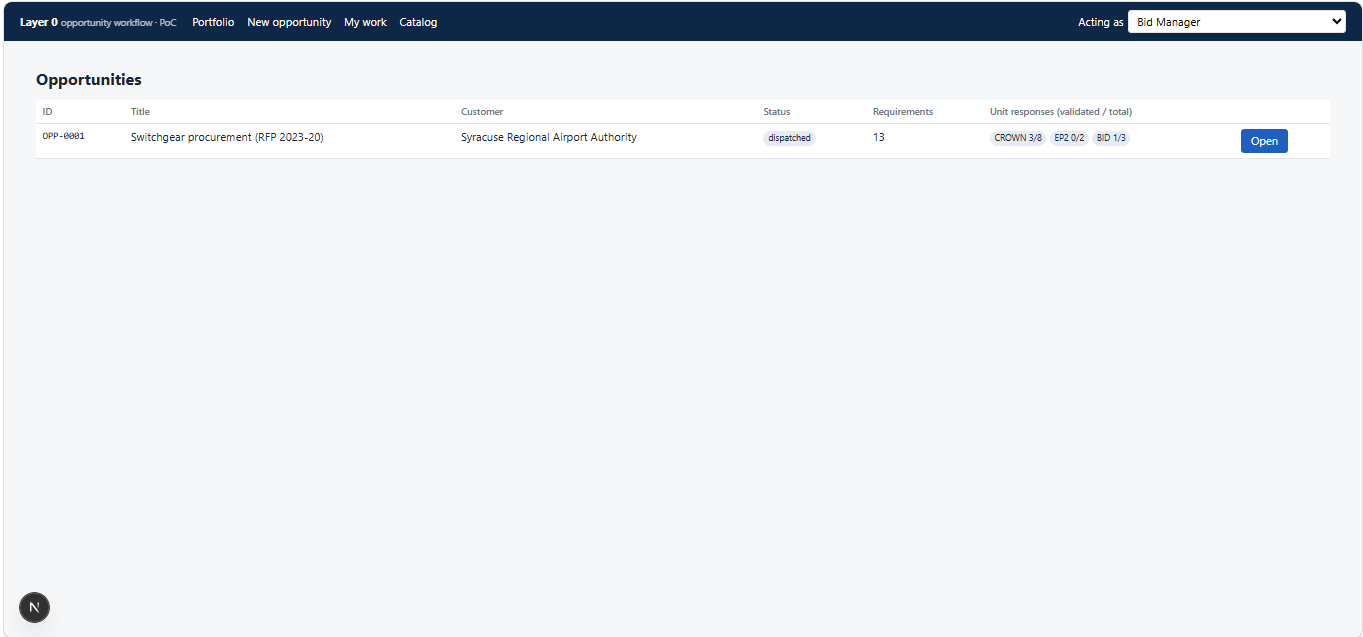
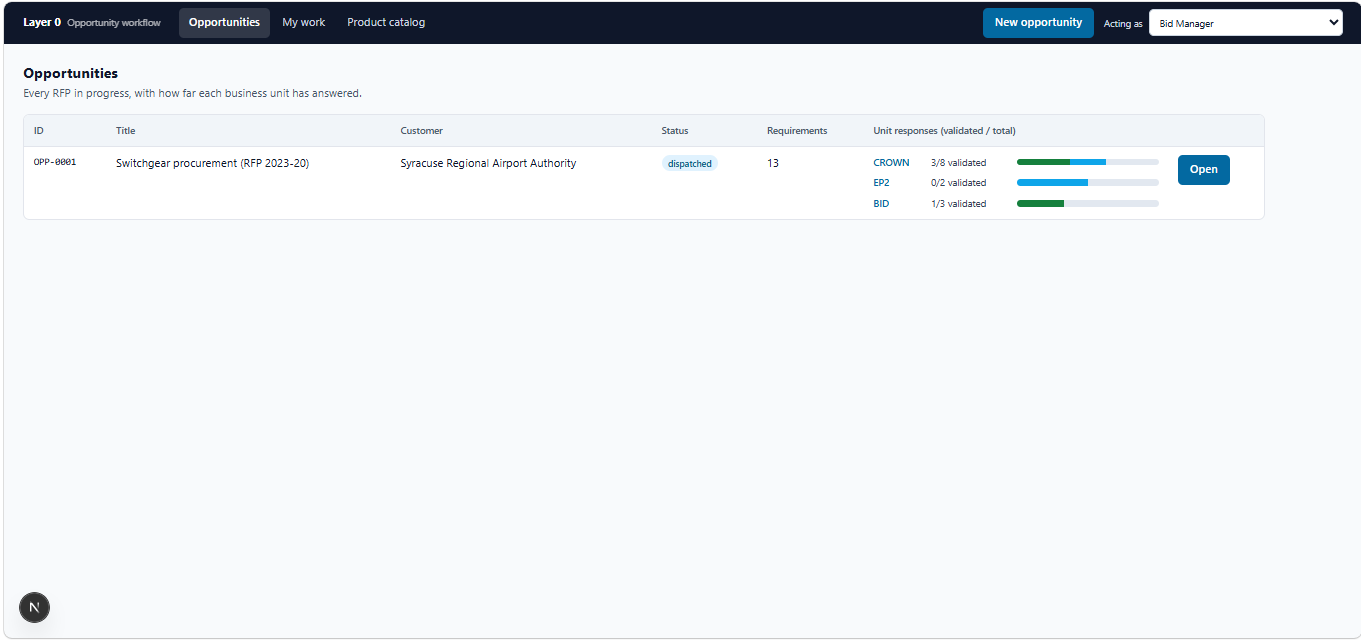
[J-03] walkthrough: refresh screenshots and align content with current UI

diff --git a/Documents/walkthrough.md b/Documents/walkthrough.md
@@ -1,5 +1,7 @@
 # Layer 0 Walkthrough
 
+*Walkthrough as of 9 Oct 2026. It describes the demonstration build of that date, with demonstration data.*
+
 ## 1. Overview
 
 Layer 0 helps manage a bid opportunity from the customer's request for proposal (RFP) to a consolidated response. It reads the RFP into numbered requirements with exact sources, proposes a business unit and product for each, records participation and go/no-go decisions, and collects and consolidates each unit's response. Every response stays traceable to its requirement and to the RFP page it came from.
@@ -8,25 +10,30 @@ This walkthrough follows one example bid through the screens in the order of the
 
 ## 2. Demonstration Scenario
 
-The example is **OPP-0001, Switchgear procurement (RFP 2023-20)** for **Syracuse Regional Airport Authority** (public sector). The RFP is a 101-page PDF, and 13 requirements have been extracted from it. The opportunity has the status "dispatched". Three parties respond in the example: the business units **CROWN** and **EP2**, and the **BID** desk (the bid manager's own requirements).
+The example is **OPP-0001, Switchgear procurement (RFP 2023-20)** for **Syracuse Regional Airport Authority** (public sector). The RFP is a 101-page PDF. This walkthrough uses 13 requirements selected for the demonstration. The opportunity has the status "dispatched".
+
+Three parties respond in the example. The screens show them by code:
+- **CROWN** is Crown Technical Systems.
+- **EP2** is Electrical Power Products (EP²).
+- **BID** is the bid desk, which holds the bid manager's own requirements.
 
 ## 3. End-to-End Workflow
 
-The screens follow this order of work. The Screen column gives the page, or the numbered step in the bar below the page header.
+The screens follow this order of work. The Screen column gives the step in the bar under the opportunity title, or the page in the top bar. Completed steps are ticked.
 
 | Step | What happens | Screen | Status |
 |---|---|---|---|
 | 1 | **Opportunity creation:** a title, customer and customer type are entered. | New opportunity | Current |
-| 2 | **RFP document upload:** the RFP PDF is added to the opportunity. | 1 Documents | Current |
-| 3 | **Requirement extraction:** requirements are extracted from the document. | 1 Documents | Current |
-| 4 | **Requirement review:** each requirement is checked against its source, and a baseline is recorded. | 2 Requirements | Current |
-| 5 | **Source traceability:** a requirement can be followed to its place on the RFP page. | 3 Three screens | Current |
-| 6 | **Product and business-unit matching:** each requirement is proposed to a unit and product. | 3 Three screens | Current |
-| 7 | **Participation and go/no-go:** the bid manager records which units take part and whether to bid. | 4 Decisions | Current |
-| 8 | **Work-package dispatch:** each participating unit receives its requirements (its work package). | 4 Decisions | Current |
+| 2 | **RFP document upload:** the RFP PDF is added to the opportunity. | RFP | Current |
+| 3 | **Requirement extraction:** requirements are extracted from the document. | RFP | Current |
+| 4 | **Requirement review:** each requirement is checked against its source, and a baseline is recorded. | Requirements | Current |
+| 5 | **Source traceability:** a requirement can be followed to its place on the RFP page. | Traceability | Current |
+| 6 | **Product and business-unit matching:** each requirement is proposed to a unit and product. | Traceability | Current |
+| 7 | **Participation and go/no-go:** the bid manager records which units take part and whether to bid. | Bid decision | Current |
+| 8 | **Work-package dispatch:** each participating unit receives its requirements (its work package). | Bid decision | Current |
 | 9 | **Unit response collection:** units answer, and the bid manager validates the answers. | My work | Current |
-| 10 | **Consolidation:** responses are brought together, and open items are shown. | 5 Consolidation | Current |
-| 11 | **Change handling:** later changes to the RFP are handled against the baseline. | 6 Changes | **Planned** |
+| 10 | **Consolidation:** responses are brought together, and open items are shown. | Final response | Current |
+| 11 | **Change handling:** later changes to the RFP are handled against the baseline. | Changes (planned) | **Planned** |
 
 ## 4. Opportunities
 
@@ -36,9 +43,10 @@ The screens follow this order of work. The Screen column gives the page, or the 
 
 *Figure 1. The Opportunities page.*
 
+- The top bar offers **Opportunities**, **My work** and **Product catalog**, a **New opportunity** button and the **Acting as** role selector.
 - Each row shows the opportunity ID, title, customer, status and number of requirements (13 in the example).
-- **Unit responses (validated / total)** shows, for each unit and the bid desk, how many responses are validated out of those assigned: CROWN 3/8, EP2 0/2 and BID 1/3.
-- **Open** enters the opportunity at the Documents step.
+- **Unit responses (validated / total)** shows, for each unit and the bid desk, how many responses are validated out of those assigned: Crown Technical Systems 3 of 8, Electrical Power Products 0 of 2 and the bid desk 1 of 3 (shown on screen as CROWN 3/8, EP2 0/2 and BID 1/3). A bar beside each count shows validated work (green) and work awaiting validation (blue). Each unit code opens that unit's work package under **My work**.
+- **Open** enters the opportunity at its Traceability step.
 
 ## 5. New Opportunity
 
@@ -48,86 +56,81 @@ The screens follow this order of work. The Screen column gives the page, or the 
 
 *Figure 2. The New opportunity form.*
 
-The form asks for a **title**, the **customer** and the **customer type**. **Create** adds the opportunity to the list.
+The form asks for a **title**, the **customer** and the **customer type**. The page notes that one opportunity is created per RFP, and that the RFP is uploaded on the next page.
 
-## 6. Documents
+## 6. RFP
 
 **Purpose.** Holds the RFP and the other documents of the opportunity.
 
-![Documents](images/03-documents.png)
+![RFP documents](images/03-rfp-documents.png)
 
-*Figure 3. The Documents step, showing the RFP with status "ingested".*
+*Figure 3. The RFP step, showing the RFP with status "ingested".*
 
-- The customer and its sector are shown above the file list.
-- Each document shows its **file name**, **role** ("main" for the RFP), **page count** (101) and **status** ("ingested").
+- The customer and its sector are shown above the file list, with the sequence: upload the RFP, then have it broken into requirements.
+- Each document shows its **file name**, **role** ("main" for the RFP), **page count** (101), **status** ("ingested") and a document fingerprint.
 - A further PDF can be added by choosing a file and a role and selecting **Upload and read**. **Refresh status** updates the status column.
-- The separate action **Run the reader agent → requirements** initiates requirement extraction from the uploaded RFP document.
-
-Once requirements exist, the **2 Requirements** step shows them.
+- Once requirement review has started, the page states that the RFP is not read again, and that missed items can be added on the Requirements page.
 
 ## 7. Requirements Review
 
 **Purpose.** Lets the requirements be checked against the RFP before the work starts.
 
-![Requirement review](images/04-requirements.png)
+![Requirements](images/04-requirements.png)
 
-*Figure 4. Requirement review, with source and exact quotation for each requirement.*
+*Figure 4. The Requirements step, listing all 13 requirements with source and exact quotation.*
 
-- Each requirement has an **ID** (for example REQ-0001-0001), a **source** (page and lines of the RFP) and a **category**: technical, schedule, submission or compliance.
-- The requirement is stated in plain language, with the **exact quotation** from the RFP beneath it.
-- Each requirement has a **status**; the requirements shown are "approved".
 - A note states that Baseline 1 was frozen by the Bid Manager with 13 items. Later changes are handled as a difference from this baseline.
+- Filters show the requirements by review state (To review, Unanchored, Approved, Rejected, Split / merged, All), each with a count, and a search box finds an ID or text.
+- Each requirement has an **ID** (for example REQ-0001-0001), a **category** (technical, schedule, submission or compliance), a **source** (page and lines of the RFP) and a **status**. All 13 requirements in the example are "approved".
+- The requirement is stated in plain language, with the **exact quotation** from the RFP beneath it.
 
 ## 8. Requirement Traceability and Product Matching
 
-This capability is presented through the Three Screens view, which brings together the source document, extracted requirements, and proposed products and responses.
+This capability is presented through the Traceability step, which brings together the source document, extracted requirements, and proposed products and responses in three panels.
 
 **Purpose.** Shows a requirement, its source and its proposed product and response in one view.
 
-![Three Screens](images/05-three-screens.png)
+![Traceability](images/05-traceability.png)
 
-*Figure 5. The Three Screens view with REQ-0001-0001 selected.*
+*Figure 5. The Traceability step with REQ-0001-0001 selected in all three panels.*
 
 | Panel | Content |
 |---|---|
 | **1. Original RFP** | The RFP page, with requirement text highlighted. Page controls move through the document. |
 | **2. Requirement breakdown** | ID, category, source, requirement and quotation. |
-| **3. Product mapping and responses** | The proposed business unit and product, offering type, matching rationale, optional Bill of Materials (BOM), and response status. |
+| **3. Product mapping and responses** | The proposed business unit and product, offering type, matching rationale, an expandable Bill of materials (for example, 5 lines), the proposal status with **Accept**, **Reject** and **Change** buttons, and the unit's response and status. |
 
 **How it works**
 - Selecting a requirement in any panel selects it in all three panels. The RFP opens on the page of the requirement, with its text highlighted more strongly than the others.
 - Each panel scrolls on its own.
-- The line above the panels shows each unit's validated responses (for example, CROWN 3/8 validated).
+- The line above the panels shows each unit's validated responses (for example, 3 of 8 for Crown Technical Systems).
 - **Match products** proposes a business unit and product for each requirement.
+- A proposed match can be accepted, rejected or changed.
 - A requirement that is not a product item is shown as belonging to the **Bid manager**.
 
-![A second requirement selected](images/06-three-screens-selected.png)
+**Traceability.** From one requirement the reader can see its exact RFP wording and location, the product proposed for it and the response it received. The same ID and source then appear in the unit's work package under My work and in the Final response.
 
-*Figure 6. REQ-0001-0003 selected: the same requirement is highlighted in all three panels, and its text is marked on RFP page 55.*
-
-**Traceability.** From one requirement the reader can see its exact RFP wording and location, the product proposed for it and the response it received. The same ID and source then appear in the unit's work package and in Consolidation.
-
-**Offering types.** A legend under the toolbar explains the three types:
+**Offering types.** A legend under the page introduction explains the three types:
 
 | Type | Meaning |
 |---|---|
-| CTO | Configure to Order |
-| Semi-Custom | Standard product with limited customization |
-| ETO | Engineer to Order |
+| CTO | Configure-to-order: catalog product with options (CPQ) |
+| Semi-custom | Configured product plus workshop work for this customer |
+| ETO | Engineered-to-order: designed for this requirement |
 
-## 9. Decisions: Participation and Go/No-Go
+## 9. Bid Decision: Participation and Go/No-Go
 
 **Purpose.** Records the decisions of the bid manager and releases the work.
 
-![Decisions](images/07-decisions.png)
+![Bid decision](images/06-bid-decision.png)
 
-*Figure 7. The Decisions step.*
+*Figure 6. The Bid decision step.*
 
-1. **Evidence.** The number of requirements by category (13 in total), the offering mix (ETO 7, CTO 3, NONE 3, where NONE means requirements that are not product items) and the suggested units (CROWN 8, EP2 2).
+1. **Evidence.** The number of requirements by category (13 in total), the offering mix (ETO 7, CTO 3, NONE 3, where NONE means requirements that are not product items) and the suggested units, each with a count (Crown Technical Systems 8, Electrical Power Products 2). The page states that the requirements must be frozen on the Requirements page before go or no-go is decided.
 2. **Which business units take part?** The bid manager selects the participating units from the list, may enter a rationale, and selects **Record participation**. The screen shows who recorded the choice.
 3. **Go / no-go.** The bid manager selects **Go** or **No-go**, with a rationale field. The screen shows the decision and who made it.
 
-**Dispatch work packages to units** then sends each participating unit its requirements.
+**Dispatch work packages to units** then sends each participating unit its requirements. The page notes that dispatch is repeated after changing matches or participation: new work is sent, and work that no longer fits is withdrawn.
 
 ## 10. Work Packages and Responses
 
@@ -135,39 +138,38 @@ This capability is presented through the Three Screens view, which brings togeth
 
 The demonstration allows selection of different participant roles using the **Acting as** selector. The list contains the Bid Manager and, for each business unit, a Product Manager and a Design Engineer. **My work** opens the work package of the selected role's unit.
 
-![Acting as](images/08-acting-as.png)
+![Acting as](images/07-acting-as.png)
 
-*Figure 8. The Acting as selector.*
+*Figure 7. The Acting as selector.*
 
-![Work package](images/09-work-package.png)
+![My work](images/08-my-work.png)
 
-*Figure 9. The work package of the Bid desk (bid manager).*
+*Figure 8. My work: the work package of the Bid desk (bid manager).*
 
 - The example shows the work package of the **Bid desk (bid manager)**.
 - Each line shows the requirement, its exact quotation and its source.
 - The response has a compliance choice (the page explains: met, partly met, not met or an exception), a **Product / configuration** field and a **How it is met** field. **Submit** sends the response.
-- The status of each line is shown as assigned, submitted or validated. Validated lines show who validated them. The bid manager validates the responses.
+- The status of each line is shown as assigned, submitted or validated. Validated lines show the response and who validated it. The bid manager validates the responses.
 
-## 11. Consolidation
+## 11. Final Response
 
 **Purpose.** Brings all responses together and shows what remains open.
 
-![Consolidation](images/10-consolidation.png)
+![Final response](images/09-final-response.png)
 
-*Figure 10. Consolidation, with 4 of 13 requirements answered.*
+*Figure 9. The Final response step, with 4 of 13 requirements answered.*
 
+- The page explains that every requirement must be answered by its business unit and validated before the response is complete.
 - A progress line shows the requirements answered out of the total (4 / 13) and how many still need an answer (9).
-- Each requirement shows its ID and source, the responding unit, its answer, the product reference and the response status.
+- Each requirement shows its ID and source, the responding unit, its answer, the product reference and the response status. The ID links to the requirement in Traceability.
 - Each requirement has an overall state. In the example, requirements with a validated response are "answered", and those whose responses are assigned or submitted are "pending".
 - **Download compliance matrix (CSV)** exports the table.
 
 ## 12. Change Handling (Planned)
 
-![Changes](images/11-changes.png)
+**Planned.** Addenda, question-and-answer documents and change requests will be read in the same way as the RFP and compared with the frozen baseline. Only requirements that are added, modified or removed will get a new version, and their unit responses will be returned for review.
 
-*Figure 11. The Changes step, which currently describes the planned behaviour.*
-
-**Planned.** Addenda, question-and-answer documents and change requests will be read in the same way as the RFP and compared with the frozen baseline. Only requirements that are added, modified or removed will get a new version, and their unit responses will be returned for review. The screen currently describes this. It does not perform it.
+The numbered steps do not include this stage. It appears as a separate link, **Changes (planned)**, beside them in the bar under the opportunity title. The page currently describes this behaviour. It does not perform it.
 
 ## 13. Summary
 
@@ -185,13 +187,13 @@ This proof of concept demonstrates the workflow from document upload through con
 - Supports compliance tracking throughout the bid process.
 - Provides a baseline for the planned change-management capability.
 
-## Appendix A: Catalog
+## Appendix A: Product Catalog
 
-**Purpose.** The reference list of business units and products used for matching.
+**Purpose.** The reference list of business units and products, with their past responses, used for matching.
 
-![Catalog](images/12-catalog.png)
+![Product catalog](images/10-product-catalog.png)
 
-*Figure 12. The Catalog of business units and products.*
+*Figure 10. The Product catalog of business units and products.*
 
-- Each business unit is listed with its status, a short description and its products, each with a code, a name and an offering type (CTO, Semi-Custom or ETO). A search box looks up the catalog.
+- Each business unit is listed with its status, a short description, its product manager and design engineer roles, and its products, each with a code, a name and an offering type. A search box looks up the catalog.
 - The catalog content is illustrative sample data and **needs confirmation** with each business unit.

diff --git a/team/tracker/janvia.md b/team/tracker/janvia.md
@@ -8,7 +8,7 @@ Task details and dependencies: [team/PLAN.md](../PLAN.md).
 |---|---|---|---|---|---|
 | J-01 | Clone, `.venv`, seed, run; open the three screens; read `.claude/CLAUDE.md` | S0 | Thu 8 Oct | done | app run locally: walkthrough screenshots taken from it (60faf7a) |
 | J-02 | Polish the three screens for the walkthrough: layout, legend (CTO / Semi-custom / ETO), selected-row and highlight styles, empty states | S1 | Fri 9 Oct AM | done | fed8c0a legend, selected row, status badges, empty states, a11y; follow-ups 0e7f3d8 client wording, bd946ed error message instead of endless loading |
-| J-03 | Walkthrough document `Documents/walkthrough.md` with screenshots (`Documents/images/`), neutral voice | S1 | Fri 9 Oct | review | 60faf7a walkthrough + 12 screenshots. Review 9 Oct: not client-ready yet; checklist below |
+| J-03 | Walkthrough document `Documents/walkthrough.md` with screenshots (`Documents/images/`), neutral voice | S1 | Fri 9 Oct | review | 60faf7a walkthrough + 12 screenshots. Review 9 Oct: not client-ready yet; checklist below. Refresh: 10 screenshots from the current UI, text on current names, checklist 1, 3, 4, 10, 11 done; items 2, 5-9 open |
 | J-04 | Portfolio: per-unit progress bars, status chips, link to each unit's inbox | S2 | Sat 10 Oct | done | per-unit two-segment bars (validated, awaiting validation), status chips, unit names link to `/inbox/<unit>`, "not dispatched" when empty; `web/app/portfolio/page.tsx` + `globals.css` only; build and pytest green; cb08a93 |
 | J-05 | Consolidation page: blocking items link to the three screens; compliance-matrix columns reviewed with the bid-manager view | S3 | Sun 11 Oct | todo | |
 | J-06 | Monday demo click-path checklist (in the walkthrough) and a dry run with Piyush | S3 | Mon 12 Oct AM | todo | |
@@ -20,25 +20,25 @@ Task details and dependencies: [team/PLAN.md](../PLAN.md).
 Voice, structure and the "Planned" labels are good. Fix the items below before the client sees the document.
 
 **Now (text only, about an hour):**
-- [ ] 1. §2: "13 requirements have been extracted" is not accurate. The 13 are hand-picked seed items; the reader agent extracts 840 from this RFP. Write "13 requirements selected for the demonstration" (or describe the real extraction after P-08).
-- [ ] 3. Current names everywhere (§3 table, §4, §6, §8, §9, §11): steps **RFP, Requirements, Traceability, Bid decision, Final response**; top bar **Opportunities, My work, Product catalog**. §4 "Open enters the opportunity at the RFP step".
-- [ ] 4. §8 offering types, the agreed definitions (as in the on-screen legend):
+- [x] 1. §2: "13 requirements have been extracted" is not accurate. The 13 are hand-picked seed items; the reader agent extracts 840 from this RFP. Write "13 requirements selected for the demonstration" (or describe the real extraction after P-08).
+- [x] 3. Current names everywhere (§3 table, §4, §6, §8, §9, §11): steps **RFP, Requirements, Traceability, Bid decision, Final response**; top bar **Opportunities, My work, Product catalog**. §4 "Open enters the opportunity at the RFP step". Done 9 Oct. §4 says "Open enters the opportunity at its Traceability step": the Open button links to the Traceability page (checked in the page), not to the RFP step.
+- [x] 4. §8 offering types, the agreed definitions (as in the on-screen legend):
   - CTO: configure-to-order, a catalog product with options (CPQ).
   - Semi-custom: a configured product plus workshop work for this customer.
   - ETO: engineered-to-order, designed for this requirement.
-- [ ] 10. In prose, use unit names instead of codes: "Crown Technical Systems and EP²", not "CROWN and EP2".
-- [ ] 11. Add a date line at the top: "Walkthrough as of <date>", naming the build it describes.
+- [x] 10. In prose, use unit names instead of codes: "Crown Technical Systems and EP²", not "CROWN and EP2".
+- [x] 11. Add a date line at the top: "Walkthrough as of <date>", naming the build it describes.
 
 **After P-08 (the demo runs on the real extraction):**
-- [ ] 2. Retake all 12 screenshots. They show the old navigation, the old legend and the Next.js development badge (the "N" bottom left). Take them from a production build (`cd web && npm run build && npm start`).
-- [ ] 5. §7 Requirements:
+- [ ] 2. Retake all 12 screenshots. They show the old navigation, the old legend and the Next.js development badge (the "N" bottom left). Take them from a production build (`cd web && npm run build && npm start`). 9 Oct: 10 screenshots refreshed from the current UI (Requirements, Bid decision and Final response each joined from two captures). Still open: retake from a production build (no "N" badge).
+- [ ] 5. §7 Requirements: 9 Oct: filters and search are described; review actions, freeze rule and the seven categories are still open.
   - the review actions: edit, split, merge, add a missed requirement, bulk approve/reject;
   - filters and search;
   - freezing needs every item decided;
   - list all seven categories.
-- [ ] 6. §8 Traceability: accept, reject or change a match on screen 3 (A-05); a requirement can go to several units.
-- [ ] 7. §9 Bid decision: the engineering checks in the evidence (A-06). Order: go/no-go only after freeze; dispatch only after "go".
-- [ ] 8. Bill of materials: read from the separate BOM system, illustrative for now (not "optional").
+- [ ] 6. §8 Traceability: accept, reject or change a match on screen 3 (A-05); a requirement can go to several units. 9 Oct: accept / reject / change is described; several units per requirement is still open.
+- [ ] 7. §9 Bid decision: the engineering checks in the evidence (A-06). Order: go/no-go only after freeze; dispatch only after "go". 9 Oct: freeze-before-decision and the dispatch note are described; the engineering checks are still open.
+- [ ] 8. Bill of materials: read from the separate BOM system, illustrative for now (not "optional"). 9 Oct: "optional" removed; the BOM-system wording is still open.
 - [ ] 9. One line on how requirements are produced: the model reads each page, every quote is checked against the page, answers are frozen (the agentic process the client asked for).
 
 The Monday click-path checklist is J-06, a separate task.
@@ -55,3 +55,4 @@ The Monday click-path checklist is J-06, a separate task.
 | 8 Oct 2026 | J-01, J-02 done; client wording and loading-error follow-ups; J-03 walkthrough with 12 screenshots (tracker filled in on 9 Oct from the commits) | J-03 rename to current screen names |
 | 9 Oct 2026 | Review fixes in trace / consolidation, applied by Piyush: compliance CSV safe in Excel (formula cells quoted, safe file name, offering type of the assigned unit); 404 for unknown opportunities; trace payload 2.4 → 1.3 MB (no match evidence); header status refreshes after actions; keyboard: BOM summary and page highlights reachable, rows no longer swallow inner keys; "met · " with no product fixed; consolidation shows load errors. Regression test added | J-03 rename, J-04 portfolio |
 | 9 Oct 2026 | J-04 done: Portfolio shows a progress bar per unit (green validated, blue awaiting validation, grey not answered) with the count and a link to the unit's inbox; status chips coloured by stage; "not dispatched" when a unit list is empty | J-05 consolidation (blocking items list, matrix columns with the bid manager), then J-03 rename |
+| 9 Oct 2026 | J-03 refresh: 10 screenshots from the current UI (Requirements, Bid decision and Final response each joined from two captures), walkthrough text on current names and definitions, "as of" date line; checklist items 1, 3, 4, 10, 11 done; the Open button opens Traceability (not the RFP step) | J-03 items 2, 5-9 after P-08; J-05 |
